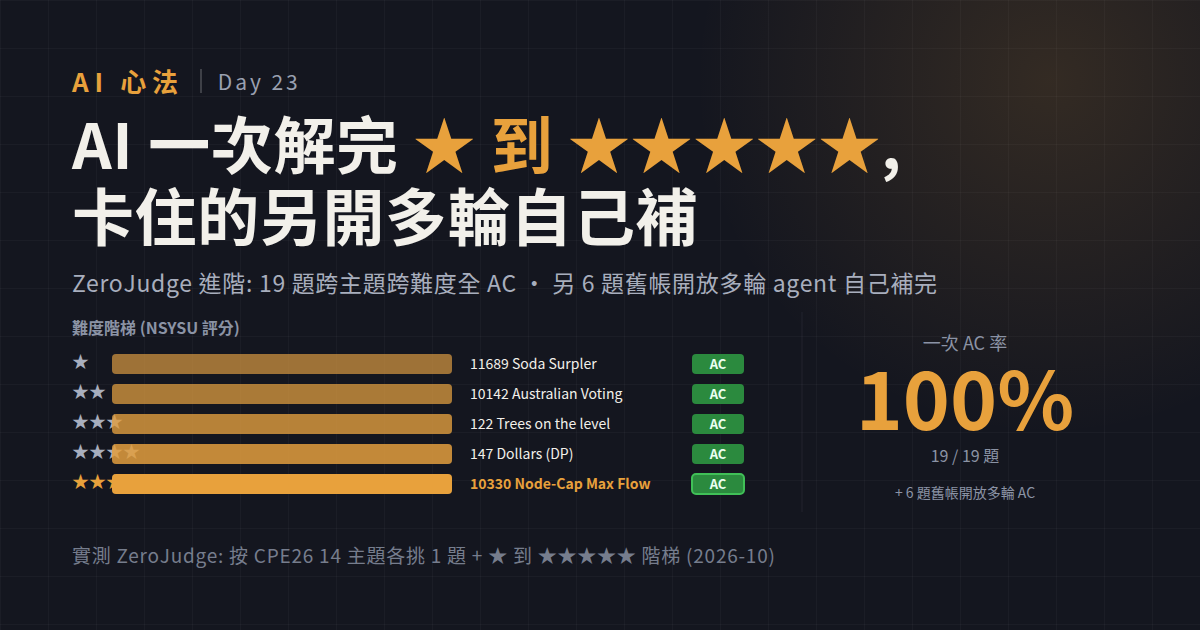
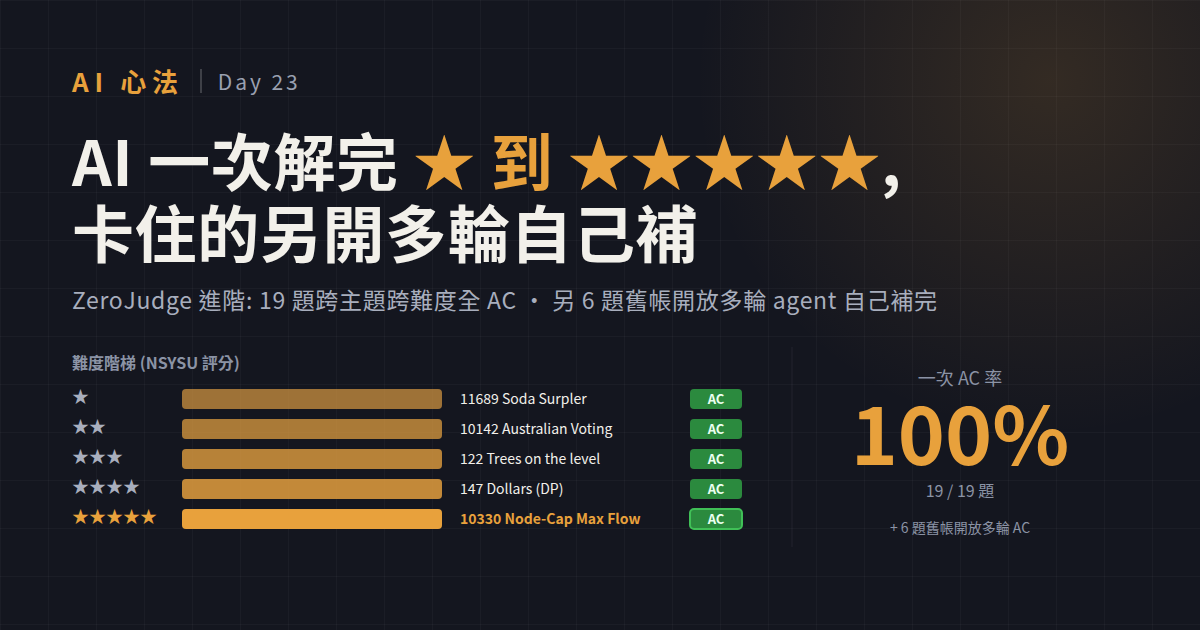
day23(cover): 長條縮短避開星星標籤, 移除底部 foot 行
- 長條起點 x=40 -> x=110, 寬度 340 -> 260, 避免 ★★★★★ 五星標籤被長條蓋到
- 題名文字與 AC 徽章對應右移
- 移除「實測 ZeroJudge: 按 CPE26 14 主題各挑 1 題 + ★ 到 ★★★★★ 階梯 (2026-10)」底部 foot, 版面不要那麼擠

Changed region(s): [[0.0617, 0.181, 0.8017, 0.9048], [0.7092, 0.5127, 0.8942, 0.8746]]

diff --git a/05-notes/ironman/assets/cover-day23.html b/05-notes/ironman/assets/cover-day23.html
@@ -32,49 +32,48 @@ text{font-family:"Noto Sans CJK TC",sans-serif}
     <text x="0" y="22" fill="#8b93a5" font-size="16" font-weight="700">難度階梯 (NSYSU 評分)</text>
 
     <text x="0" y="56" fill="#a8aebd" font-size="17" font-weight="700">★</text>
-    <rect x="40" y="42" width="340" height="20" rx="4" fill="#5b617033"/>
-    <rect x="40" y="42" width="340" height="20" rx="4" fill="#e8a13ca0"/>
-    <text x="398" y="57" fill="#f2f0ea" font-size="14">11689 Soda Surpler</text>
-    <rect x="620" y="42" width="52" height="20" rx="4" fill="#2b8a3e"/>
-    <text x="646" y="57" fill="#eafff0" font-size="13" font-weight="900" text-anchor="middle">AC</text>
+    <rect x="110" y="42" width="260" height="20" rx="4" fill="#5b617033"/>
+    <rect x="110" y="42" width="260" height="20" rx="4" fill="#e8a13ca0"/>
+    <text x="388" y="57" fill="#f2f0ea" font-size="14">11689 Soda Surpler</text>
+    <rect x="618" y="42" width="52" height="20" rx="4" fill="#2b8a3e"/>
+    <text x="644" y="57" fill="#eafff0" font-size="13" font-weight="900" text-anchor="middle">AC</text>
 
     <text x="0" y="86" fill="#a8aebd" font-size="17" font-weight="700">★★</text>
-    <rect x="40" y="72" width="340" height="20" rx="4" fill="#5b617033"/>
-    <rect x="40" y="72" width="340" height="20" rx="4" fill="#e8a13cb0"/>
-    <text x="398" y="87" fill="#f2f0ea" font-size="14">10142 Australian Voting</text>
-    <rect x="620" y="72" width="52" height="20" rx="4" fill="#2b8a3e"/>
-    <text x="646" y="87" fill="#eafff0" font-size="13" font-weight="900" text-anchor="middle">AC</text>
+    <rect x="110" y="72" width="260" height="20" rx="4" fill="#5b617033"/>
+    <rect x="110" y="72" width="260" height="20" rx="4" fill="#e8a13cb0"/>
+    <text x="388" y="87" fill="#f2f0ea" font-size="14">10142 Australian Voting</text>
+    <rect x="618" y="72" width="52" height="20" rx="4" fill="#2b8a3e"/>
+    <text x="644" y="87" fill="#eafff0" font-size="13" font-weight="900" text-anchor="middle">AC</text>
 
     <text x="0" y="116" fill="#a8aebd" font-size="17" font-weight="700">★★★</text>
-    <rect x="40" y="102" width="340" height="20" rx="4" fill="#5b617033"/>
-    <rect x="40" y="102" width="340" height="20" rx="4" fill="#e8a13cc0"/>
-    <text x="398" y="117" fill="#f2f0ea" font-size="14">122 Trees on the level</text>
-    <rect x="620" y="102" width="52" height="20" rx="4" fill="#2b8a3e"/>
-    <text x="646" y="117" fill="#eafff0" font-size="13" font-weight="900" text-anchor="middle">AC</text>
+    <rect x="110" y="102" width="260" height="20" rx="4" fill="#5b617033"/>
+    <rect x="110" y="102" width="260" height="20" rx="4" fill="#e8a13cc0"/>
+    <text x="388" y="117" fill="#f2f0ea" font-size="14">122 Trees on the level</text>
+    <rect x="618" y="102" width="52" height="20" rx="4" fill="#2b8a3e"/>
+    <text x="644" y="117" fill="#eafff0" font-size="13" font-weight="900" text-anchor="middle">AC</text>
 
     <text x="0" y="146" fill="#a8aebd" font-size="17" font-weight="700">★★★★</text>
-    <rect x="40" y="132" width="340" height="20" rx="4" fill="#5b617033"/>
-    <rect x="40" y="132" width="340" height="20" rx="4" fill="#e8a13cd0"/>
-    <text x="398" y="147" fill="#f2f0ea" font-size="14">147 Dollars (DP)</text>
-    <rect x="620" y="132" width="52" height="20" rx="4" fill="#2b8a3e"/>
-    <text x="646" y="147" fill="#eafff0" font-size="13" font-weight="900" text-anchor="middle">AC</text>
+    <rect x="110" y="132" width="260" height="20" rx="4" fill="#5b617033"/>
+    <rect x="110" y="132" width="260" height="20" rx="4" fill="#e8a13cd0"/>
+    <text x="388" y="147" fill="#f2f0ea" font-size="14">147 Dollars (DP)</text>
+    <rect x="618" y="132" width="52" height="20" rx="4" fill="#2b8a3e"/>
+    <text x="644" y="147" fill="#eafff0" font-size="13" font-weight="900" text-anchor="middle">AC</text>
 
     <text x="0" y="176" fill="#e8a13c" font-size="17" font-weight="900">★★★★★</text>
-    <rect x="40" y="162" width="340" height="20" rx="4" fill="#5b617033"/>
-    <rect x="40" y="162" width="340" height="20" rx="4" fill="#e8a13c"/>
-    <text x="398" y="177" fill="#e8a13c" font-size="14" font-weight="700">10330 Node-Cap Max Flow</text>
-    <rect x="620" y="162" width="52" height="20" rx="4" fill="#2b8a3e" stroke="#40c057" stroke-width="2"/>
-    <text x="646" y="177" fill="#eafff0" font-size="13" font-weight="900" text-anchor="middle">AC</text>
+    <rect x="110" y="162" width="260" height="20" rx="4" fill="#5b617033"/>
+    <rect x="110" y="162" width="260" height="20" rx="4" fill="#e8a13c"/>
+    <text x="388" y="177" fill="#e8a13c" font-size="14" font-weight="700">10330 Node-Cap Max Flow</text>
+    <rect x="618" y="162" width="52" height="20" rx="4" fill="#2b8a3e" stroke="#40c057" stroke-width="2"/>
+    <text x="644" y="177" fill="#eafff0" font-size="13" font-weight="900" text-anchor="middle">AC</text>
 
     <!-- Divider -->
-    <line x1="730" y1="0" x2="730" y2="200" stroke="#5b617033" stroke-width="1"/>
+    <line x1="720" y1="0" x2="720" y2="200" stroke="#5b617033" stroke-width="1"/>
 
     <!-- 右半: hero -->
-    <text x="893" y="38" fill="#8b93a5" font-size="18" text-anchor="middle">一次 AC 率</text>
-    <text x="893" y="118" fill="#e8a13c" font-size="80" font-weight="900" text-anchor="middle">100%</text>
-    <text x="893" y="150" fill="#8b93a5" font-size="16" text-anchor="middle">19 / 19 題</text>
-    <text x="893" y="186" fill="#8b93a5" font-size="14" text-anchor="middle">+ 6 題舊帳開放多輪 AC</text>
+    <text x="888" y="38" fill="#8b93a5" font-size="18" text-anchor="middle">一次 AC 率</text>
+    <text x="888" y="118" fill="#e8a13c" font-size="80" font-weight="900" text-anchor="middle">100%</text>
+    <text x="888" y="150" fill="#8b93a5" font-size="16" text-anchor="middle">19 / 19 題</text>
+    <text x="888" y="186" fill="#8b93a5" font-size="14" text-anchor="middle">+ 6 題舊帳開放多輪 AC</text>
   </svg>
   </div>
-  <div class="foot">實測 ZeroJudge: 按 CPE26 14 主題各挑 1 題 + ★ 到 ★★★★★ 階梯 (2026-10)</div>
 </div></body></html>
